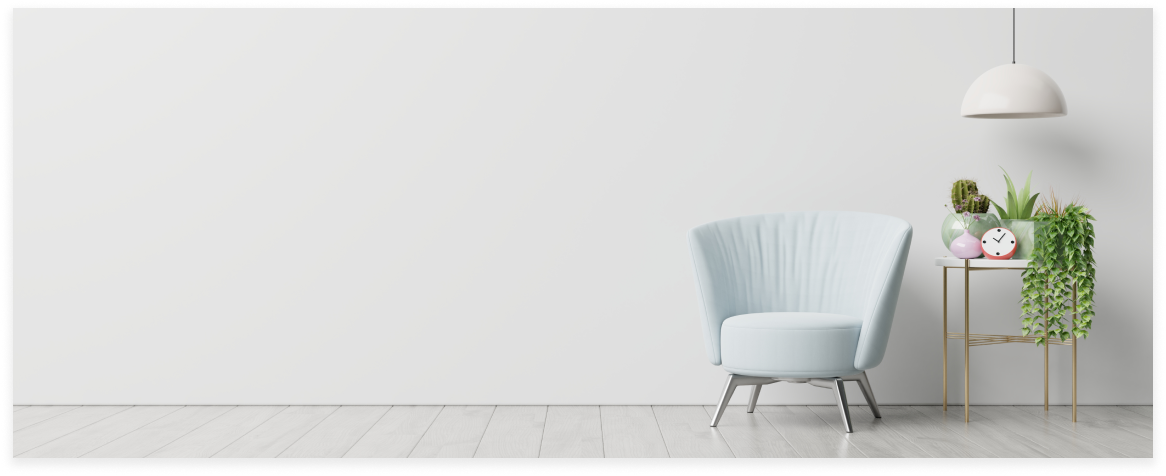
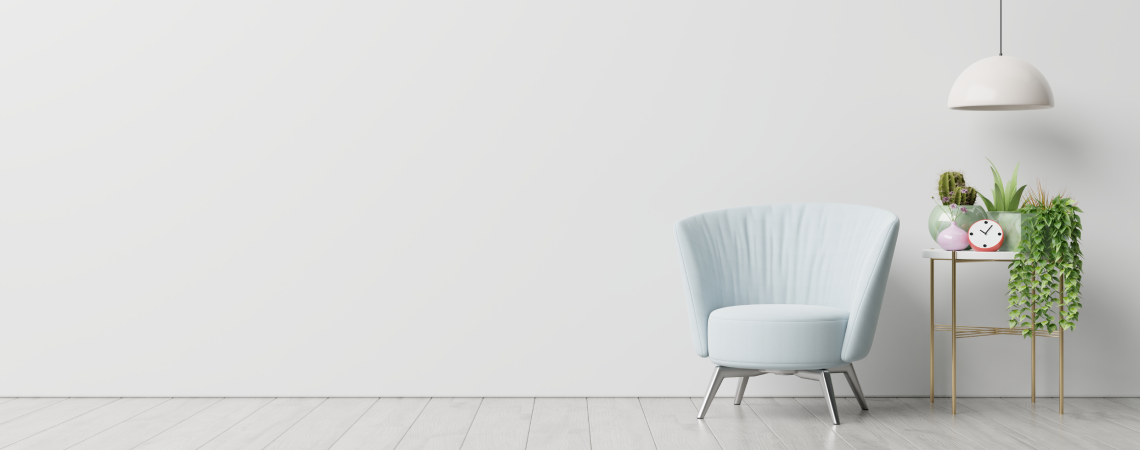
refactor categories block

diff --git a/src/components/Main/Categories/Category.jsx b/src/components/Main/Categories/Category.jsx
@@ -3,36 +3,40 @@ import React from 'react';
 import './Category.css';
 // import icon from '../../../images/icons/kitchen-icon.svg';
 
-const Category = (props) => {
-  return (
-    <li className="category__list-item category">
-      {/* <img alt="icon" src={icon} className="category__icon"></img> */}
-      <div className="category__icon">{props.icon}</div>
-      <div className="category__title">{props.title}</div>
-      <ul className="category__dropdown">
-        <li className="category__dropdown-item">
-          <a href="qqq" className="category__dropdown-link">
-            Kuxni1
-          </a>
-        </li>
-        <li className="category__dropdown-item">
-          <a href="qqq" className="category__dropdown-link">
-            Kuxni2
-          </a>
-        </li>
-        <li className="category__dropdown-item">
-          <a href="qqq" className="category__dropdown-link">
-            Kuxni3
-          </a>
-        </li>
-        <li className="category__dropdown-item">
-          <a href="qqq" className="category__dropdown-link">
-            Kuxni4
-          </a>
-        </li>
-      </ul>
-    </li>
-  );
+const Category = ({ items }) => {
+  return items.map((category) => {
+    return (
+      <li className="category__list-item category">
+        {category.icon ? (
+          <div className="category__icon">{category.icon ? category.icon : ''}</div>
+        ) : (
+          ''
+        )}
+
+        <div className={category.color ? 'category__title ' + category.color : 'category__title'}>
+          {category.title}
+        </div>
+        <ul className="category__dropdown"></ul>
+      </li>
+    );
+  });
 };
+
+// const Category = (props) => {
+//   return (
+//     <li className="category__list-item category">
+//       {/* <img alt="icon" src={icon} className="category__icon"></img> */}
+//       <div className="category__icon">{props.icon}</div>
+//       <div className="category__title">{props.title}</div>
+//       <ul className="category__dropdown">
+//         <li className="category__dropdown-item">
+//           <a href="qqq" className="category__dropdown-link">
+//             Kuxni1
+//           </a>
+//         </li>
+//       </ul>
+//     </li>
+//   );
+// };
 
 export default Category;

diff --git a/src/components/Main/Categories/CategoryList.jsx b/src/components/Main/Categories/CategoryList.jsx
@@ -9,12 +9,26 @@ import * as icons from '../../../icons.js';
 const CategoryList = () => {
   return (
     <ul className="category__list">
-      <Category {...{ icon: icons.kitchenIcon, title: 'Кухни' }} />
-      <Category {...{ icon: icons.livingroomIcon, title: 'Гостинные' }} />
-      <Category {...{ icon: icons.bedroomIcon, title: 'Спальни' }} />
-      <Category {...{ icon: icons.officeIcon, title: 'Офисная мебель' }} />
-      <Category {...{ icon: icons.childrensroomIcon, title: 'Детская' }} />
-      <Category {...{ icon: icons.closetIcon, title: 'Прихожие' }} />
+      <Category
+        items={[
+          {
+            icon: icons.kitchenIcon,
+            title: 'Кухни',
+            // dropdown: ['Кухни111', 'ASDFG', '2345'],
+          },
+          { icon: icons.livingroomIcon, title: 'Гостинные' },
+          { icon: icons.bedroomIcon, title: 'Спальни' },
+          { icon: icons.officeIcon, title: 'Офисная мебель' },
+          { icon: icons.childrensroomIcon, title: 'Детская' },
+          { title: 'Акция', color: 'red' },
+          { title: '', color: 'menu' },
+        ]}
+      />
+      {/* <Category {{ icon: icons.livingroomIcon, title: 'Гостинные' }} />
+      <Category {{ icon: icons.bedroomIcon, title: 'Спальни' }} />
+      <Category {{ icon: icons.officeIcon, title: 'Офисная мебель' }} />
+      <Category {{ icon: icons.childrensroomIcon, title: 'Детская' }} />
+      <Category {{ icon: icons.closetIcon, title: 'Прихожие' }} /> */}
     </ul>
   );
 };

diff --git a/src/components/Main/Categories/Category.css b/src/components/Main/Categories/Category.css
@@ -15,6 +15,7 @@
     display: flex;
     flex-direction: row;
     align-items: center;
+    justify-content: center;
     position: relative;
     color: #414141;
     font-size: 16px;
@@ -22,11 +23,12 @@
     height: 100%;
     width: 100%;
     padding: 0px 40px;
-    transition: all .1s ease;
+    transition: all .2s ease;
 }
 
 .category__list-item:hover{
-    background-color: #245462;
+    background-color: #3a3a3a;
+    /* background-color: #245462; */
     color: #fff;
     cursor: pointer;
 
@@ -34,6 +36,56 @@
 
 .category__list-item:hover .category__icon path{
     fill: #fff;
+}
+.category__list-item .red,
+.category__list-item .menu{
+    padding: 0px;
+}
+
+
+.red{
+    transition: all .1s ease;
+    color: #D74444;
+}
+
+/* .category__list-item:hover .red{
+    color: #fff;
+} */
+
+.menu{
+    position: relative;
+}
+
+.menu,
+.menu::before,
+.menu::after{
+    content: "";
+    display: block;
+    width: 3px;
+    height: 3px;
+    border-radius: 50%;
+    background-color: #202020;
+    transition: all .2s ease;
+
+}
+
+.menu::before,
+.menu::after{
+    position: absolute;
+}
+
+.menu::before{
+    top: -6px;
+}
+
+.menu::after{
+    bottom: -6px;
+}
+
+.category__list-item:hover .menu,
+.category__list-item:hover .menu::before,
+.category__list-item:hover .menu::after{
+    background-color: #fff;
 }
 
 .category__icon {
@@ -66,3 +118,4 @@
     color: #245462;
     text-decoration: none;
 }
+

diff --git a/src/icons.js b/src/icons.js
@@ -114,7 +114,7 @@ export const promoIcon = (
   <svg width="19" height="19" viewBox="0 0 19 19" fill="none" xmlns="http://www.w3.org/2000/svg">
     <path
       d="M6.46429 7.07143H7.67857M11.3214 11.9286H12.5357M12.5357 6.46429L6.46429 12.5357M8.65177 1.35135L7.28081 2.7223C7.05585 2.94727 6.75073 3.07365 6.43258 3.07365H4.27324C3.61073 3.07365 3.07365 3.61073 3.07365 4.27324V6.43258C3.07365 6.75073 2.94727 7.05585 2.7223 7.28081L1.35135 8.65177C0.882883 9.12023 0.882883 9.87977 1.35135 10.3482L2.7223 11.7192C2.94727 11.9442 3.07365 12.2493 3.07365 12.5674V14.7268C3.07365 15.3893 3.61073 15.9263 4.27324 15.9263H6.43258C6.75073 15.9263 7.05585 16.0527 7.28081 16.2777L8.65177 17.6486C9.12023 18.1171 9.87977 18.1171 10.3482 17.6486L11.7192 16.2777C11.9442 16.0527 12.2493 15.9263 12.5674 15.9263H14.7268C15.3893 15.9263 15.9263 15.3893 15.9263 14.7268V12.5674C15.9263 12.2493 16.0527 11.9442 16.2777 11.7192L17.6486 10.3482C18.1171 9.87977 18.1171 9.12023 17.6486 8.65177L16.2777 7.28081C16.0527 7.05585 15.9263 6.75073 15.9263 6.43258V4.27324C15.9263 3.61073 15.3893 3.07365 14.7268 3.07365H12.5674C12.2493 3.07365 11.9442 2.94727 11.7192 2.7223L10.3482 1.35135C9.87977 0.882883 9.12023 0.882883 8.65177 1.35135Z"
-      stroke="#414141"
+      stroke="#d74444"
     />
   </svg>
 );

diff --git a/src/components/Main/Slider/Slider.css b/src/components/Main/Slider/Slider.css
@@ -5,12 +5,24 @@
 .slider{
     width: 100%;
     height: 100%;
-    min-height: 450px;
-    background: url(../../../images/hero.png) center 100% no-repeat;
+    max-height: 450px;
+    /* background: url(../../../images/hero.png) center 100% no-repeat; */
     padding: 0px;
     position: relative;
     color: #3C3C3C;
 
+}
+
+.slider__image{
+    width: 100%;
+    height: 100%;
+    max-height: 450px;
+    object-fit:cover;
+    object-position: bottom;
+
+    /* overflow: hidden; */
+    position: relative;
+    
 }
 
 .slider__content{
@@ -101,7 +113,7 @@
 }
 
 .slider__button:hover{
-    background-color: #474747;
+    background-color: #353535;
     color:#fff;
     box-shadow: -1px 2px 5px rgba(0, 0, 0, 0.472);
 }

diff --git a/src/components/Main/Slider/Slider.jsx b/src/components/Main/Slider/Slider.jsx
@@ -1,6 +1,7 @@
 import React from 'react';
 
 import './Slider.css';
+import image from '../../../images/hero.png';
 
 const sliderControl = (
   <svg width="30" height="30" viewBox="0 0 30 30" fill="none" xmlns="http://www.w3.org/2000/svg">
@@ -16,6 +17,8 @@ const sliderControl = (
 const Slider = () => {
   return (
     <section className="slider">
+      <img src={image} alt="" className="slider__image" />
+
       <div className="slider__content">
         <h1 className="slider__title">Loft Мебель</h1>
         <p className="slider__subtitle">Современная и удобная мебель</p>
